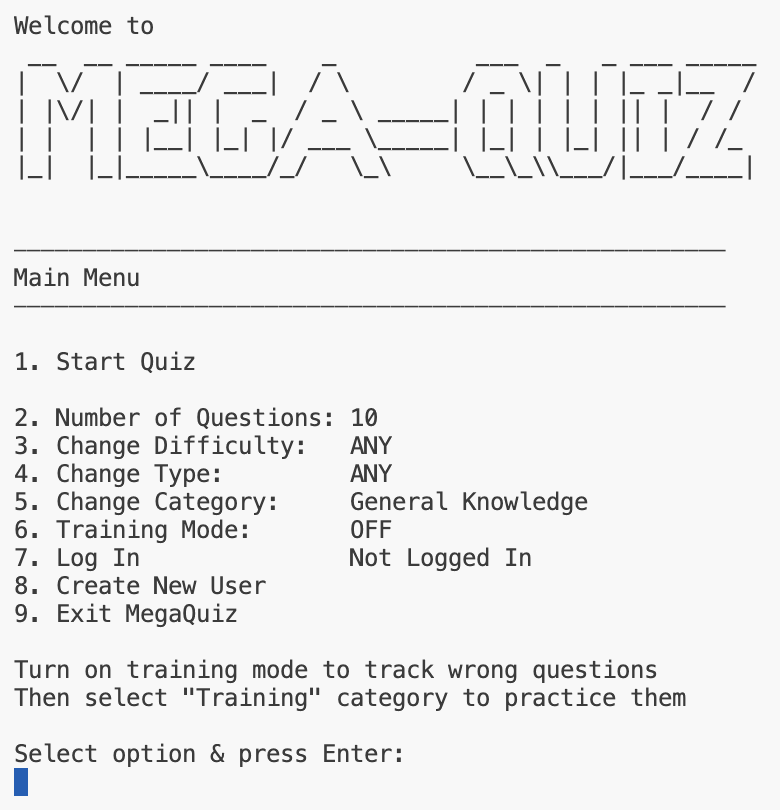
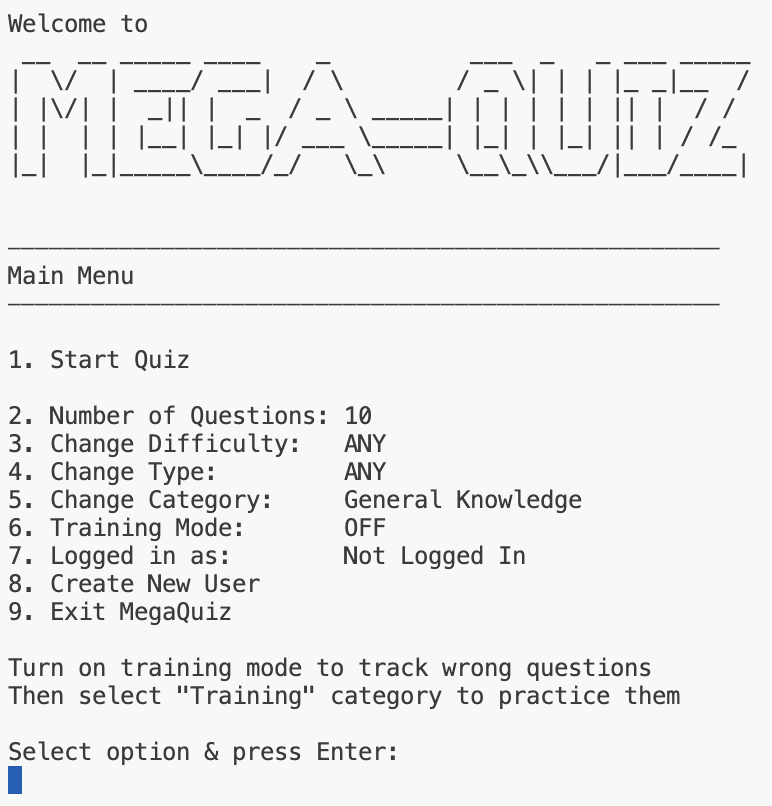
clean up code for linter

diff --git a/run.py b/run.py
@@ -34,8 +34,6 @@ def generate_new_token():
     response_json = response.json()
     return response_json['token']  # prevent duplicate questions
 
-def reset_token():
-    url ='https://opentdb.com/api_token.php?command=reset&token=YOURTOKENHERE'
 
 def get_categories():
     """
@@ -79,8 +77,8 @@ def get_questions(number, category, question_type, difficulty, token):
                      + url_no_of_questions
                      + url_category
                      + url_difficulty
-                     + url_type)
-                    #  + url_token)  # build complete API URL
+                     + url_type
+                     + url_token)  # build complete API URL
 
     questions = requests.get(questions_url)  # get the questions
     questions_json = questions.json()
@@ -134,7 +132,7 @@ def display_main_menu():
         f'4. Change Type:\u0009\u0009{str_question_type}\n'
         f'5. Change Category:\u0009{display_category(category,category_list)}'
         f'\n6. Training Mode:\u0009{training_mode}\n'
-        f'7. Log In\u0009\u0009{user}\n'
+        f'7. Logged in as:\u0009{user}\n'
         f'8. Create New User\n'
         f'9. Exit MegaQuiz\n'
         )
@@ -184,7 +182,7 @@ def display_main_menu():
                         reset_cli("Create New User...")
                         while True:
                             user_input = get_valid_username()
-                            if user_input != None:
+                            if user_input is not None:
                                 create_user(user_input)
                                 break
                     case 9:
@@ -211,7 +209,7 @@ def log_in():
         user_input = input("Enter your username: ")
         if user_input.isalnum():
             break
-        else:    
+        else:
             print("Please use only alphanumeric input (a-Z and 0-9)")
 
     if user_input in user_list:
@@ -250,10 +248,11 @@ def get_valid_username():
         user_input = input("Enter your username: ")
         if user_input.isalnum():
             break
-        else:    
+        else:
             print("Please use only alphanumeric input (a-Z and 0-9)")
     if user_input in users:
-        print('Sorry, that name is already taken, please choose a different one\n')
+        print(f'Sorry, that name is already taken,'
+              f' please choose a different one\n')
         return None
     else:
         return user_input
@@ -290,7 +289,7 @@ def create_user(user_name):
     '''
     header_row = ['type', 'difficulty', 'category', 'question',
                   'correct_answer', 'incorrect_answers1',
-                  'incorrect_answers2','incorrect_answers3',
+                  'incorrect_answers2', 'incorrect_answers3',
                   'date added', 'correct_count']
     while True:
         pass1 = getpass.getpass("Enter a password:\n")
@@ -298,13 +297,13 @@ def create_user(user_name):
             print("Password cannot be blank!")
         else:
             pass2 = getpass.getpass("Repeat password:\n")
-            
             if pass1 == pass2:  # don't allow empty input
                 # add user to password list
                 SHEET.worksheet('users').append_row([user_name, pass1])
                 # create new user sheet to store their wrong questions
                 print("Creating new user profile...")
-                new_tab = SHEET.add_worksheet(title=user_name, rows="2000", cols="10")
+                new_tab = SHEET.add_worksheet(title=user_name,
+                                              rows="2000", cols="10")
                 SHEET.worksheet(user_name).append_row(header_row)
                 display_main_menu()
                 break
@@ -656,7 +655,8 @@ def show_result(score):
         case _ if score > 50:
             print('OK effort. Keep practicing!?\n')
         case _ if score >= 25:
-            print('These topics were definitely not your strongpoint. Try again!\n')
+            print(f'These topics were definitely not your strongpoint.'
+                  f' Try again!\n')
         case _ if score < 25:
             print('Sorry, you need to brush up on this topic!\n')
     return
@@ -682,7 +682,7 @@ def run_quiz(raw_question_list):
 
     global correct, wrong, training_mode, num, user, category, status
     wrong_qs = []  # remember which questions were wrong
-    
+
     # start loop, display first question as 1, not 0
     for q_count, q_data in enumerate(raw_question_list['results'],
                                      start=1):
@@ -720,21 +720,26 @@ def run_quiz(raw_question_list):
                         print(f'{grn}CORRECT!{rst}')
                         if category == "Training":
                             print("Logging result...")
-                            dest_row = raw_question_list['results'][q_count-1]['original_row']
+                            dest_row = raw_question_list['results'][
+                                q_count-1]['original_row']
                             update_sheet_answer(user, dest_row)
                         time.sleep(1)
                     else:
                         wrong += 1
                         print(f"{grn}Correct answer: {correct_answer}: "
-                              f"{html.unescape(q_data['correct_answer'])}{rst}")
+                              f"{html.unescape(q_data['correct_answer'])}"
+                              f"{rst}")
                         time.sleep(2)
                         if training_mode == "ON":
                             wrong_qs.append({'type': q_data['type'],
-                                             'difficulty': q_data['difficulty'],
+                                             'difficulty': q_data[
+                                                'difficulty'],
                                              'category': q_data['category'],
                                              'question': q_data['question'],
-                                             'correct_answer': q_data['correct_answer'],
-                                             'incorrect_answers': q_data['incorrect_answers']})
+                                             'correct_answer': q_data[
+                                                'correct_answer'],
+                                             'incorrect_answers': q_data[
+                                                'incorrect_answers']})
                     break
                 else:
                     print(f"Please enter 1 or {qs}!")
@@ -749,8 +754,6 @@ def run_quiz(raw_question_list):
     # ###########################    end of loop
     percentage = correct / num * 100
     show_result(percentage)
-
-
     # export wrong questions to google sheet
     # do not save wrong questions from previous wrong q's
     if training_mode == "ON" and category != "Training":

diff --git a/README.MD b/README.MD
@@ -255,7 +255,7 @@ If the number is out of range, the input is repeated and feedback is given.
 
 #### Main Menu User Logged In
 
-<img src="./assets/images/screenshot-2.png" alt="logged in" width="600"/>
+<img src="./assets/images/screenshot-28.png" alt="logged in" width="600"/>
 
 <p align="right">(<a href="#contents">back to top</a>)</p>
 
@@ -483,7 +483,7 @@ To clone the repository:
 | :-------------- |:------ | :------ |
 |App starts after run.py|Enter command in CLI|Verified OK|
 |App starts in Heroku CLI|Click run app on page|Verified OK|
-|App accepts keyboard input|Type keyboard input|**Verfied except Safari in Heroku**|
+|App accepts keyboard input|Type keyboard input|<span style="color:red">**Verified except Heroku on Sarafi.**</span>|
 |Input validation blank input|Type Enter w/ no num |Verified OK|
 |Input validation no number|Type letter & special characters|Verified OK|
 |Input validation wrong number|Typed 0 and 9+|Verified OK|
@@ -508,7 +508,7 @@ To clone the repository:
 |Input 7 shows log in screen|Selected 7|Verified OK|
 |Input 7 shows user name if logged in|logged in|Verified OK|
 |Input 8 enters create new user menu|Selected 8|Verified OK|
-|Input 9 end app and returns to CLI|Selected 8|Verified OK|
+|Input 9 ends app and returns to CLI|Selected 9|Verified OK|
 |Change question accepts only 1-50|Typed letter and 0 or 51+|Verified OK|
 |No of questions is updated in main menu|Updated number|Verified OK|
 |Change difficulty menu displayed correctly|Selected 6|Verified OK|
@@ -592,20 +592,22 @@ To clone the repository:
 |Wrong questions from 'wrong' list arent added to sheet again (no doubles)|anser training quiz q wrong compare sheet|Verified OK|
 |Questions render correctly with decoded HTML escape tags|repeat quizzes and check|Verified OK|
 |Wrong questions are saved to correct user sheet|answer wonrg questions and check user sheet|Verified OK|
-|Correct date recorded with each wrong question|not tested yet|**TBD**|
+|Correct date recorded with each wrong question|add qs to sheet|Verified OK|
 |User gets feedback if no questions saved yet|select cat 7 before wrong qs added|Verified OK|
 |Correct answer gets logged in google sheet|answered wrong and right q's|Verified OK|
 
 ### Browser Compatibility
 
-The deployed app on heroku was tested on the three most popular browsers for functionality:
+The deployed app on heroku was tested on most popular browsers for functionality:
 * Chrome
-* Safari - CI CLI app doens not accept keyboard input on macOS/iOS Safari and iOS Chrome!
+* Safari - CI CLI app does not accept keyboard input on macOS/iOS Safari and iOS Chrome!
 * Edge
+* Opera
 
 ### Known / Fixed Bugs
 
-No bugs found impacting playability or styling.
+The CI provided front end template used to simulate a Command Line Interface that is deployed with Heroku for some reason does not accept a keyboard input when opened with Safari. Research shows this is a known issue. Also, even Chrome running on iOS has the same issue.
+Other browsers running on macOS and Windows work fine. 
 
 ## Credits
 
